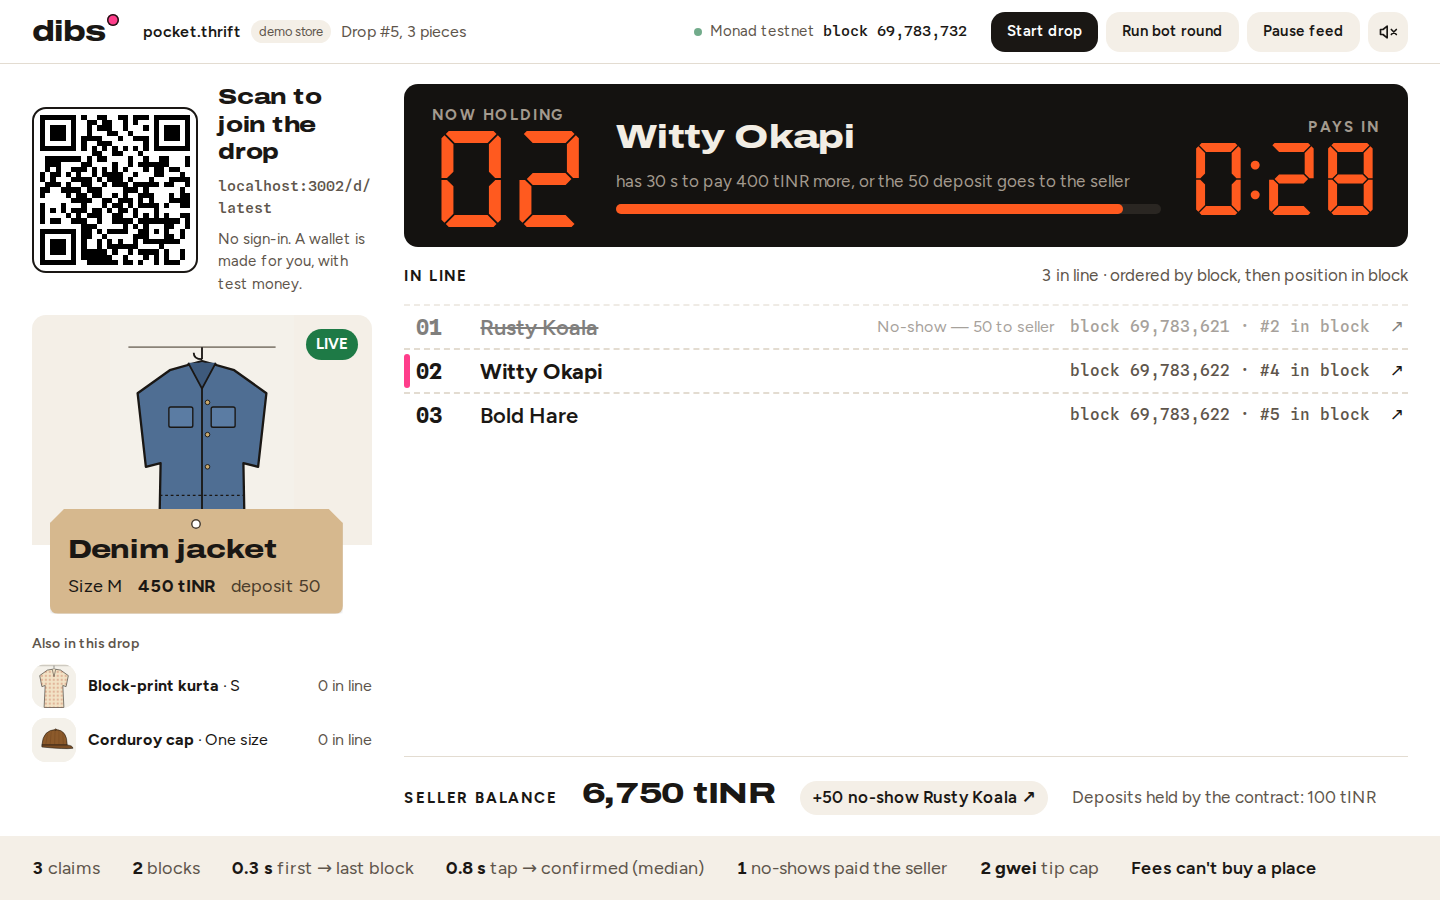
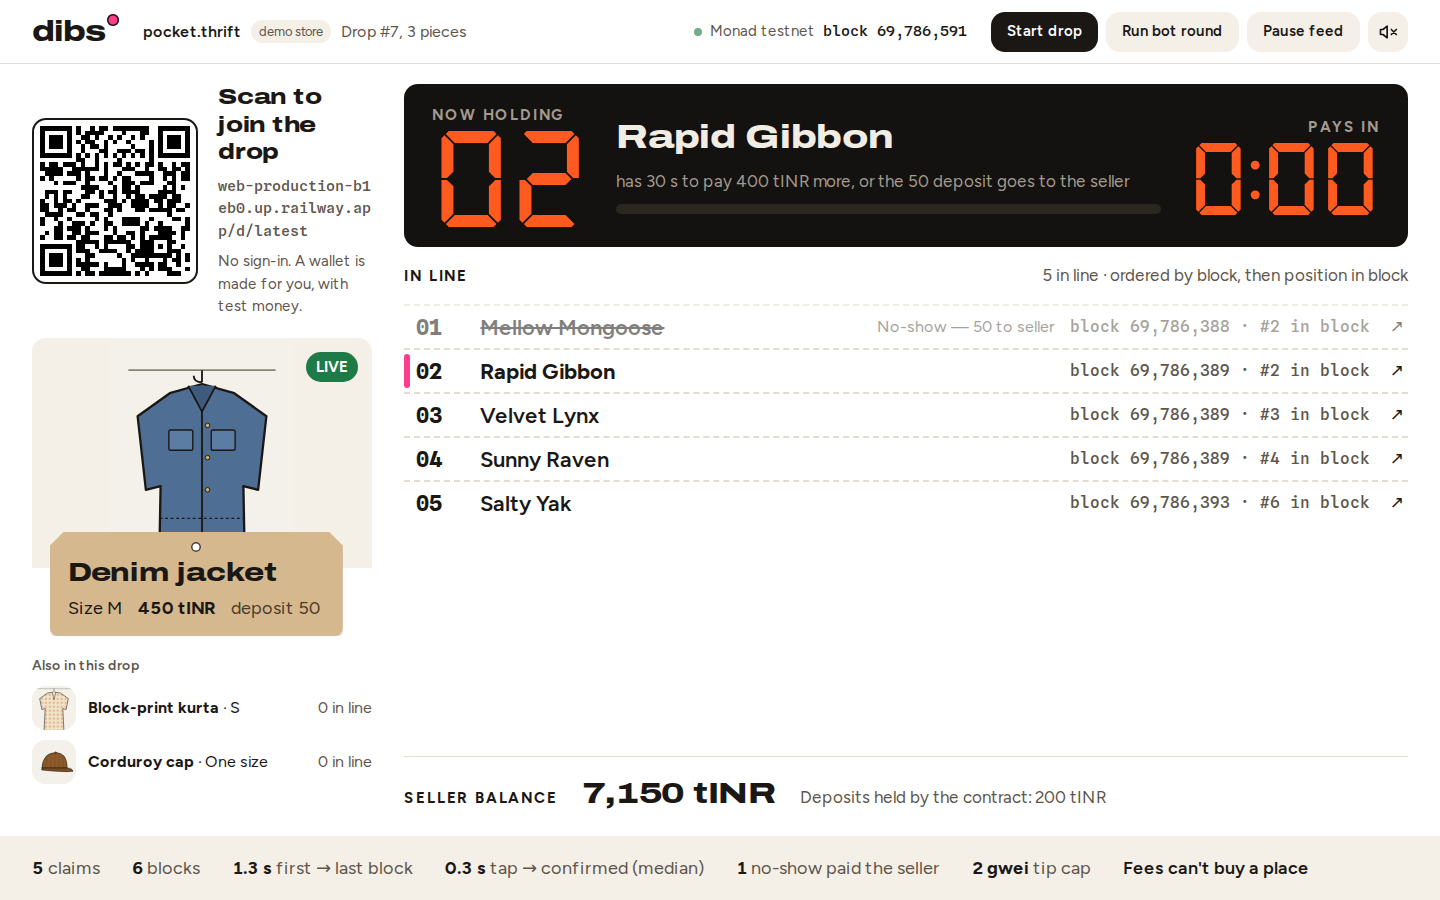
T06: deployed on Railway; README live link; forfeit/turn order robustness; rolling label

diff --git a/tests/indexer-order.test.ts b/tests/indexer-order.test.ts
@@ -26,6 +26,7 @@ describe("indexer-order: the line follows chain order", () => {
     ps = applyEvent(ps, { type: "forfeited", drop: 1, piece: 0, addr: row(0, 0, 0).addr, amount: "50", tx: null });
     ps = applyEvent(ps, { type: "turn", drop: 1, piece: 0, index: 1, addr: row(1, 0, 0).addr, deadline: 1060 });
     expect(ps[0].queue[0].status).toBe("no-show");
+    expect(ps[0].deadline).toBe(1060);
     expect(holderOf(ps[0])?.position).toBe(1);
     ps = applyEvent(ps, { type: "paid", drop: 1, piece: 0, addr: row(1, 0, 0).addr, amount: "450", tx: null });
     expect(ps[0].sold).toBe(true);
@@ -33,5 +34,18 @@ describe("indexer-order: the line follows chain order", () => {
     expect(holderOf(ps[0])).toBeNull();
     ps = applyEvent(ps, { type: "refunded", drop: 1, piece: 0, addr: row(2, 0, 0).addr, amount: "50", tx: null });
     expect(ps[0].queue[2].status).toBe("refunded");
+  });
+});
+
+describe("indexer-order: event order inside one advance() tx", () => {
+  it("keeps the new holder's deadline if forfeited is applied after the next turn", () => {
+    let ps = [piece()];
+    for (const r of [row(0, 100, 0), row(1, 100, 1)]) ps = applyEvent(ps, { type: "claimed", drop: 1, piece: 0, row: r });
+    ps = applyEvent(ps, { type: "turn", drop: 1, piece: 0, index: 0, addr: row(0, 0, 0).addr, deadline: 1000 });
+    ps = applyEvent(ps, { type: "turn", drop: 1, piece: 0, index: 1, addr: row(1, 0, 0).addr, deadline: 1060 });
+    ps = applyEvent(ps, { type: "forfeited", drop: 1, piece: 0, addr: row(0, 0, 0).addr, amount: "50", tx: null });
+    expect(ps[0].head).toBe(1);
+    expect(ps[0].deadline).toBe(1060);
+    expect(holderOf(ps[0])?.position).toBe(1);
   });
 });

diff --git a/components/LedPanel.tsx b/components/LedPanel.tsx
@@ -34,7 +34,9 @@ export function LedPanel(props: {
           <>
             <span className="display text-[34px] leading-tight">{holder.nick}</span>
             <span className="text-[17px] text-led-label">
-              has {payWindow} s to pay {rest} tINR more, or the {fmtNum(deposit)} deposit goes to the seller
+              {secsLeft > 0
+                ? `has ${payWindow} s to pay ${rest} tINR more, or the ${fmtNum(deposit)} deposit goes to the seller`
+                : `didn't pay in time — rolling to the next in line…`}
             </span>
             <div aria-hidden className="h-2.5 rounded-full" style={{ background: "#2A2622" }}>
               <div className="h-2.5 rounded-full bg-led" style={{ width: `${pct}%` }} />

diff --git a/lib/stream-types.ts b/lib/stream-types.ts
@@ -111,7 +111,9 @@ export function applyEvent(pieces: PieceState[], ev: ChainEvent): PieceState[] {
       case "forfeited": {
         setStatus(ev.addr, "no-show");
         const forfeitedAt = queue.findIndex((r) => r.addr.toLowerCase() === ev.addr.toLowerCase());
-        return { ...p, queue, head: Math.max(p.head, forfeitedAt + 1), deadline: 0 };
+        // if the next turn was already applied (head moved past this row), keep its deadline
+        const turnApplied = p.head > forfeitedAt;
+        return { ...p, queue, head: Math.max(p.head, forfeitedAt + 1), deadline: turnApplied ? p.deadline : 0 };
       }
       case "refunded":
         setStatus(ev.addr, "refunded");

diff --git a/README.md b/README.md
@@ -2,9 +2,9 @@
 
 **Dibs: a claim link for Instagram thrift drops. Buyers tap at once, Monad records the order, and a no-show's deposit pays the seller as the item rolls to #2.**
 
-![The Dibs board after a no-show: #1 is torn off, NOW HOLDING 02, seller +50, every place in line with its block number](docs/board.png)
+![The Dibs board live on Railway: #1 torn off as a no-show (50 to the seller), NOW HOLDING 02, every place in line with its block number](docs/board.png)
 
-**Live:** [https://stan-calgary-broke-oak.trycloudflare.com](https://stan-calgary-broke-oak.trycloudflare.com) · **Board (projector):** [/board/latest](https://stan-calgary-broke-oak.trycloudflare.com/board/latest) · **Phone:** [/d/latest](https://stan-calgary-broke-oak.trycloudflare.com/d/latest) — served from the team laptop during the event (Cloudflare tunnel).
+**Live:** [https://web-production-b1eb0.up.railway.app](https://web-production-b1eb0.up.railway.app) · **Board (projector):** [/board/latest](https://web-production-b1eb0.up.railway.app/board/latest) · **Phone:** [/d/latest](https://web-production-b1eb0.up.railway.app/d/latest) (Railway, one instance).
 
 > You can't pay to jump this queue, the seller can't edit it, and a no-show pays for the wait.
 
